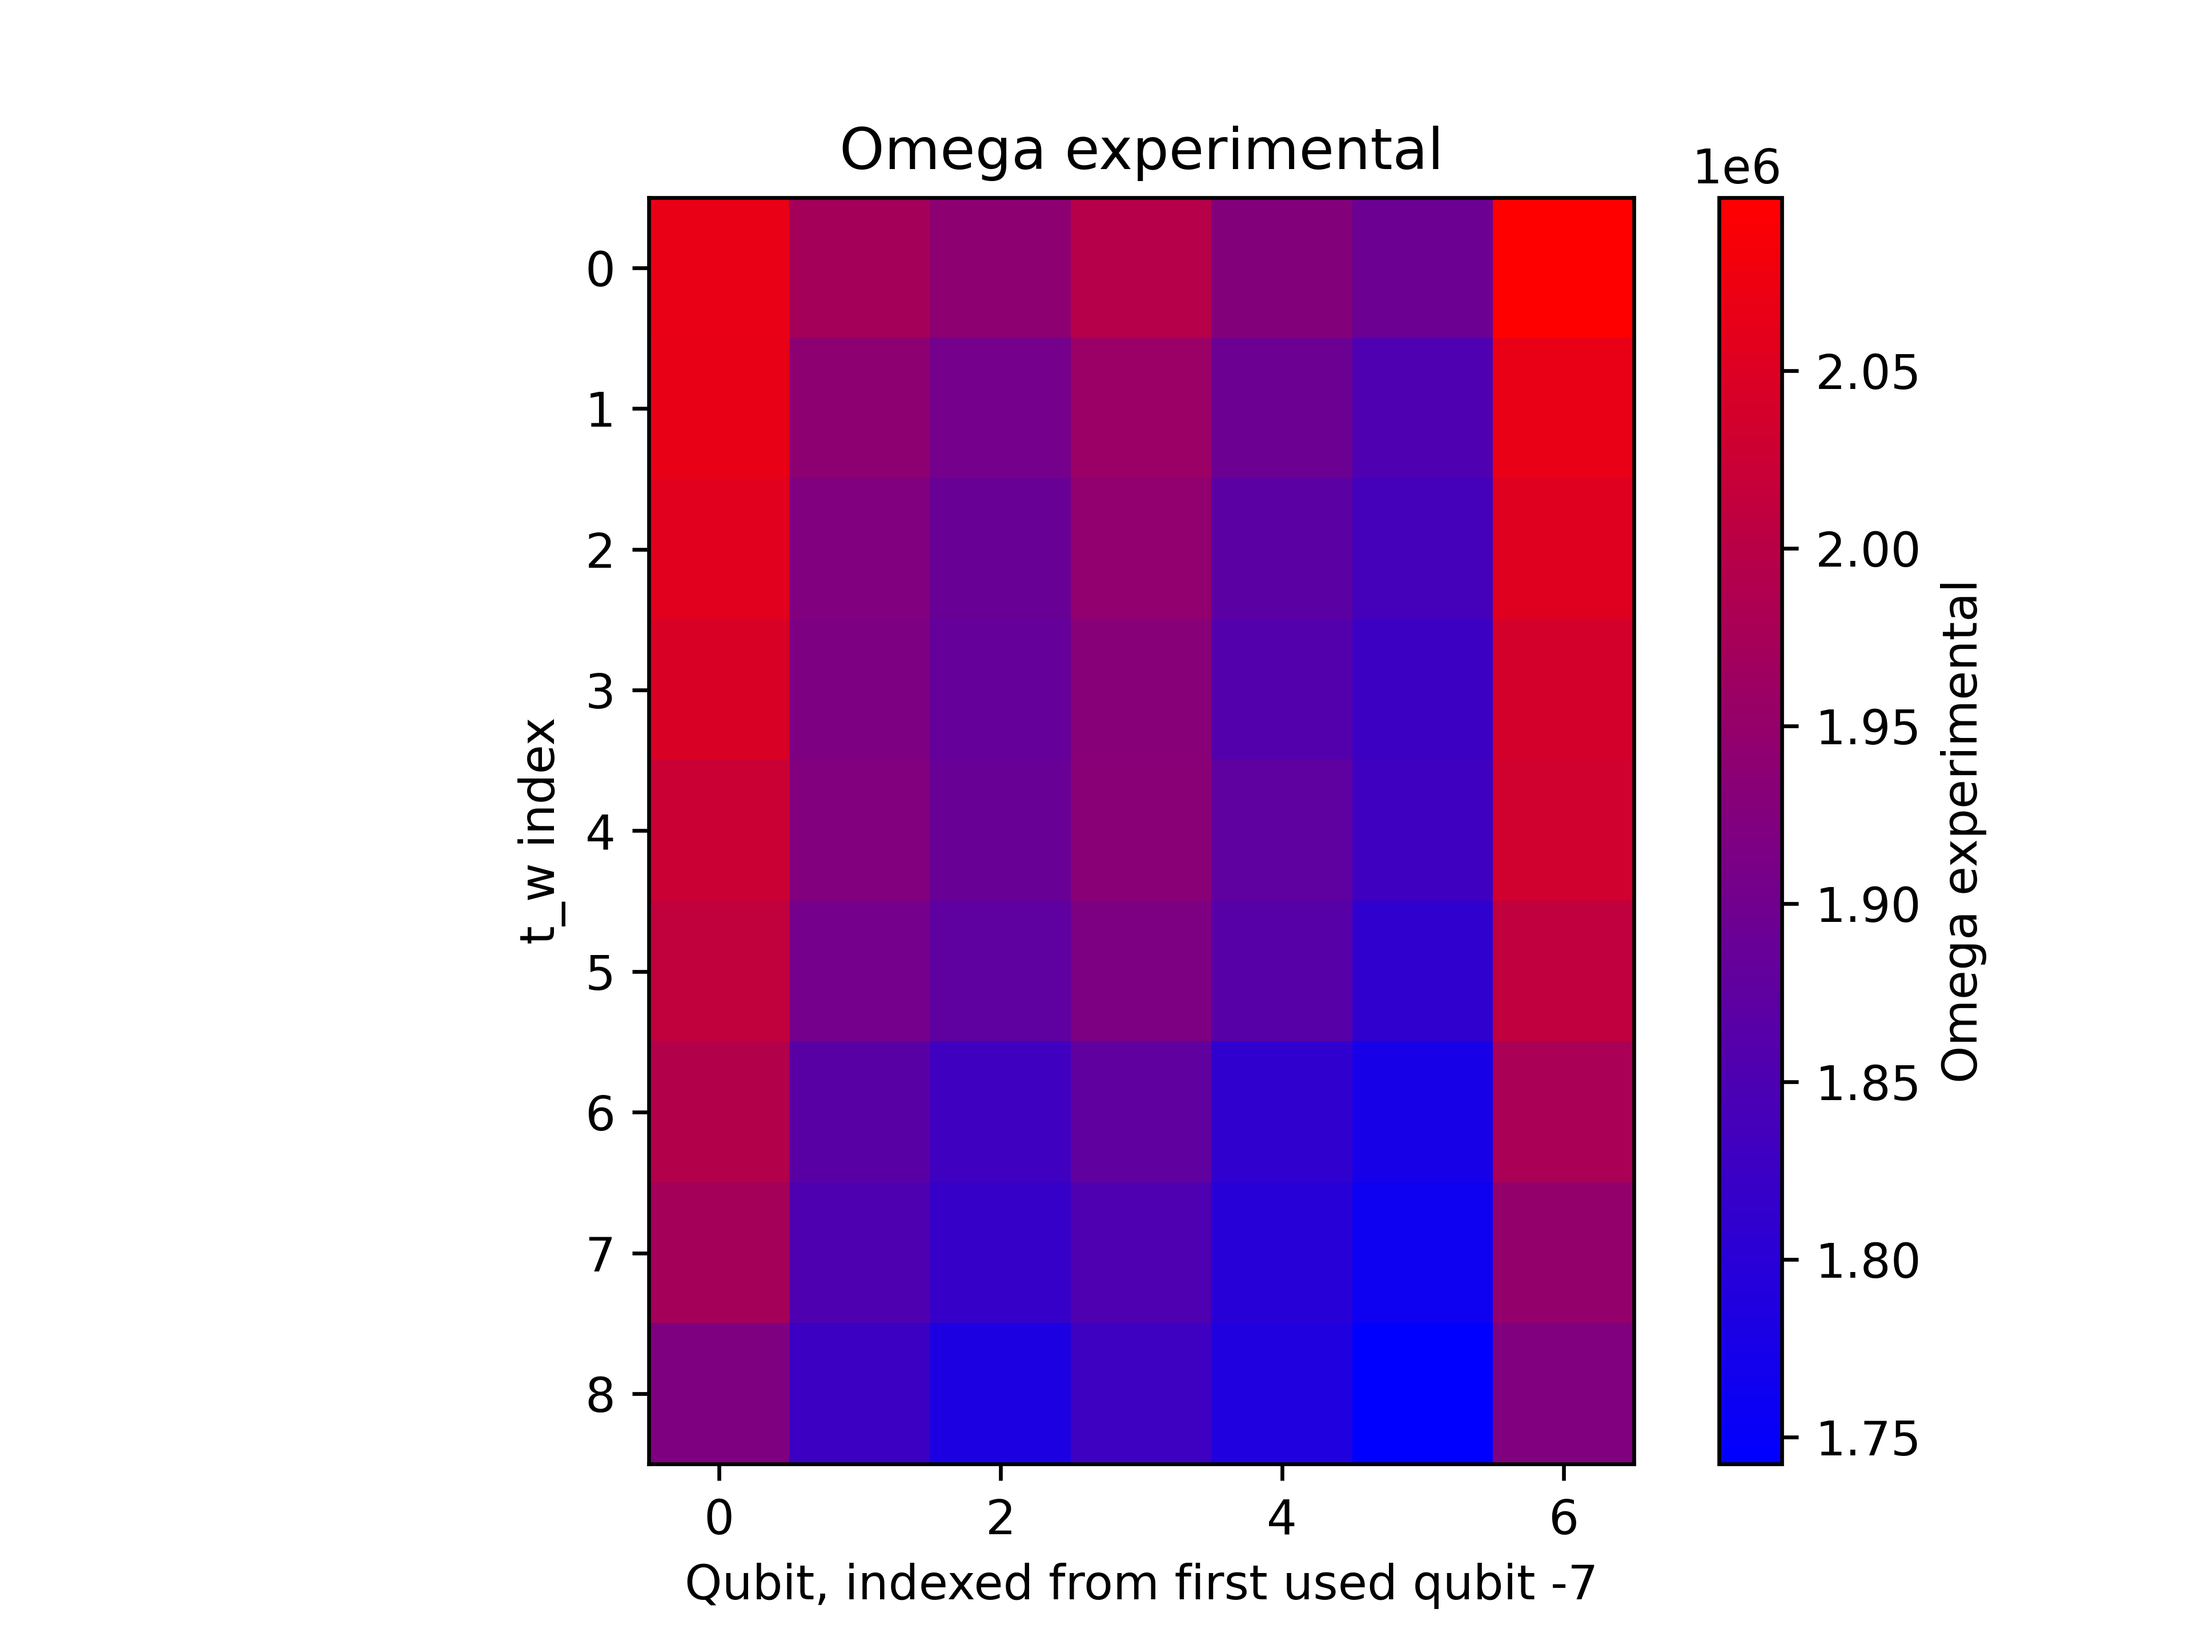
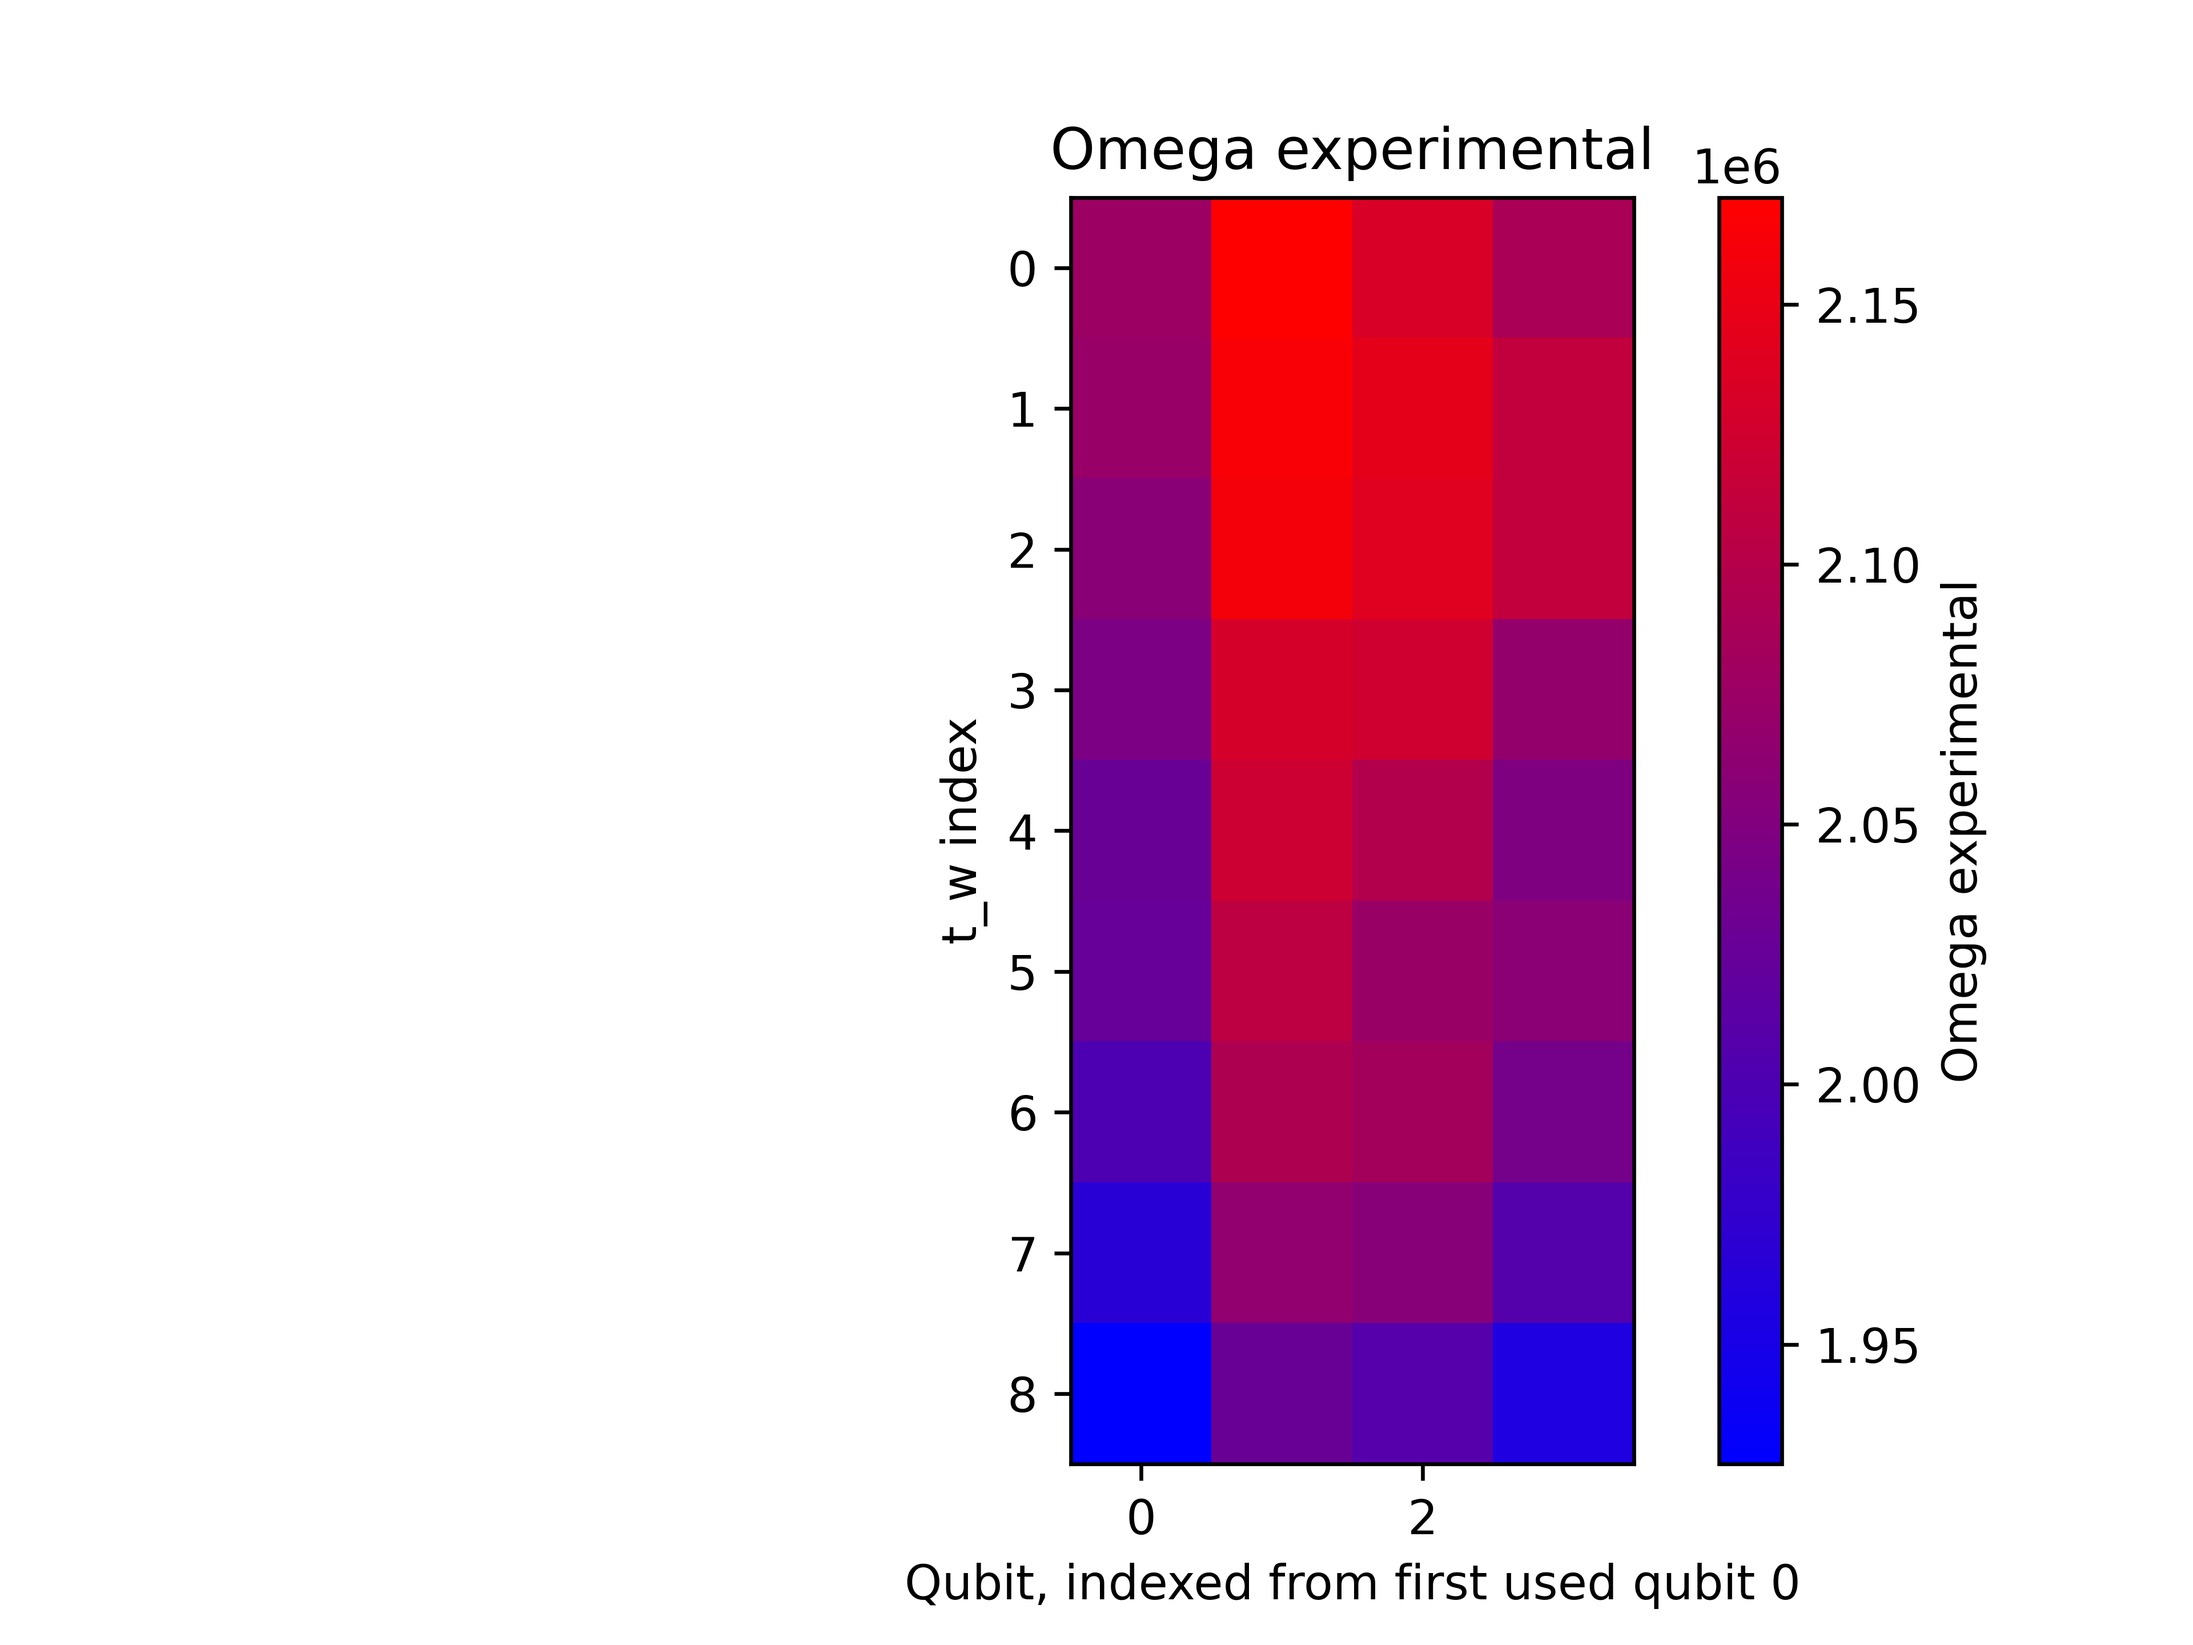
refactoring and updating full_calibration

diff --git a/data_processing/full_calibration.py b/data_processing/full_calibration.py
@@ -15,12 +15,11 @@ PATH = os.path.expanduser('~') + '/Duke_Analog_ZNE_data/'
 os.chdir(PATH)
 
 #print(os.getcwd())
-from index import print_index, get_experiment, index_folder
-from functions_util import cetina_thermal_exp, cetina_envelope_exp
+from util.index import print_index, get_experiment, index_folder
+from util.functions_util import cetina_thermal_exp, cetina_envelope_exp
 from scipy.optimize import curve_fit
 import matplotlib.pyplot as plt
 from matplotlib.colors import LinearSegmentedColormap
-import matplotlib.cm as cm
 import numpy as np
 import h5py
 
@@ -29,20 +28,29 @@ import tkinter as tk
 from tkinter import filedialog
 
 
-from functions_util import gaussian_envelope_shifted, cetina_thermal, gaussian_envelope, generate_experimental_data, rabi_flop_gauss_fit, rabi_flop_gauss_fit_shifted, cetina_thermal_exp,cetina_envelope
-from fitting_functions_ZNE import log_fit_exp_ZNE, gaussian_ZNE, cubic_ZNE, linear_ZNE, Cetina_fit, exp_ZNE, third_no_first_ZNE, quadratic_only_ZNE
+from util.functions_util import gaussian_envelope_shifted, cetina_thermal, gaussian_envelope, generate_experimental_data, rabi_flop_gauss_fit, rabi_flop_gauss_fit_shifted, cetina_thermal_exp,cetina_envelope
+from util.fitting_functions_ZNE import log_fit_exp_ZNE, gaussian_ZNE, cubic_ZNE, linear_ZNE, Cetina_fit, exp_ZNE, third_no_first_ZNE, quadratic_only_ZNE
 
 
 COUNTS_THRESHOLD = 1
-PREFIX = '563'
-#PREFIX = '558
+ACTIVE_QUBITS = [0, 1, 2, 3]
+
+#Basic parameters:
+KHz = 1e3
+omega =  900*KHz
+us = 1e-6
+theta = 0.05
 
 
 
-def fit(function, x_axis, y_axis, return_cov=False, p0=[.05,2000000], weights=None):
+def fit(function, x_axis, y_axis, return_cov=False, p0=[theta,omega], weights=None):
     # Fit the data to the function
-    popt, pcov = curve_fit(function, x_axis, y_axis, p0=p0, sigma=weights, absolute_sigma=True, maxfev=10000)
-    
+    try:
+        popt, pcov = curve_fit(function, x_axis, y_axis, p0=p0, sigma=weights, absolute_sigma=True, maxfev=10000)
+    except:
+        'Fit Failed, returning default'
+        popt = p0
+        pcov = None
     if return_cov:
         return popt, pcov
     return popt
@@ -62,12 +70,12 @@ print(f"Selected folder: {foldername}")
 
 
 # Indexes the folder to add to the experiment list
-index_tf = input('Do you want to index the folder? (y/n): ')
-if index_tf == 'y':
-    name = input('Enter extra metadata')
-    index_folder(full_path, title=name)
-else:
-    pass    
+#index_tf = input('Do you want to index the folder? (y/n): ')
+#if index_tf == 'y':
+#    name = input('Enter extra metadata')
+#    index_folder(full_path, title=name)
+#else:
+#    pass    
 
 
 foldername = 'data/' + foldername
@@ -122,15 +130,7 @@ if len(t_w_machine_time) == 0:
             
 
 experiment_names = [str(name) for name in experiment_names]
-for name_index in range(len(experiment_names)):
-    name = experiment_names[name_index]
-    if PREFIX in experiment_names:
-        pass
-    else:
-        name = PREFIX + name
-        experiment_names[name_index] = name
-#print(experiment_names)
-#print(t_w_machine_time)
+
 os.chdir(foldername)
 
 
@@ -183,22 +183,20 @@ t_w.sort()
 
 
 #For each key, extract Omega and theta from the data by fitting to cetina_thermal_exp and cetina_envelope_exp
-center_qubit = [0, 1, 2, 3]#[-3, -2, -1,  
 
 qubits = data_dict[t_w[0]]['probs'].shape[0]
-print(qubits)
+print('Qubits used:')
+print('Total Qubits: ',qubits)
 #Get the center qubit index:
 shift = 0
 center_qubit_index = int(qubits/2)+shift
-good_qubits = np.array(center_qubit) + center_qubit_index
-print(center_qubit_index)
-print([i+-12 for i in range(qubits)])
-print(good_qubits)
-print(center_qubit)
-KHz = 1e3
-omega =  900*KHz
-us = 1e-6
-theta = 0.05
+good_qubits = np.array(ACTIVE_QUBITS) + center_qubit_index
+
+print('Center Qubit Index (Zero Indexed): ',center_qubit_index)
+print([i-(center_qubit_index) for i in range(qubits)])
+print('Active Qubits, Zero Index: ',good_qubits)
+print('Active Qubits, center Index: ',ACTIVE_QUBITS)
+
 thetas = np.zeros((len(t_w), len(good_qubits)))
 Omegas = np.zeros((len(t_w), len(good_qubits)))
 #For each element of t_w, and each good qubit, curve fit to the data to get Omega and theta
@@ -208,9 +206,17 @@ for i, t in enumerate(t_w):
     probs = data['probs']
     for j, q in enumerate(good_qubits):
         #print(j, q)
-        popt, pcov = curve_fit(cetina_thermal_exp, x, probs[q, :], p0=[theta, omega])
+        try:
+            popt, pcov = curve_fit(cetina_thermal_exp, x, probs[q, :], p0=[theta, omega], maxfev=10000)
+        except:
+            print('Fit Failed, returning previous value. For Qubit {}. t_w: {}'.format(q, t))
+            popt = [theta, omega]
         theta = popt[0]
-        popt, pcov = curve_fit(cetina_envelope_exp, x, probs[q, :], p0=[theta, omega])
+        try:
+            popt, pcov = curve_fit(cetina_envelope_exp, x, probs[q, :], p0=[theta, omega], maxfev=10000)
+        except:
+            print('Fit Failed, returning previous value. For Qubit {}. t_w: {}'.format(q, t))
+            popt = [theta, omega]
         omega = popt[1]
         thetas[i, j] = theta
         Omegas[i, j] = omega
@@ -417,7 +423,7 @@ with open('Updated_parameters.txt', 'w') as f:
 plt.figure()
 
 plt.imshow(Omega_scale_factor, cmap=cmap)
-plt.xlabel('Qubit, indexed from first used qubit {}'.format(center_qubit[0]+ shift))
+plt.xlabel('Qubit, indexed from first used qubit {}'.format(ACTIVE_QUBITS[0]+ shift))
 plt.ylabel('t_w index')
 plt.title('Omega Scaling Factor Update')
 cbar = plt.colorbar()
@@ -431,7 +437,7 @@ plt.close()
 plt.figure()
 
 plt.imshow(Omega_comp_fit_matrix, cmap=cmap)
-plt.xlabel('Qubit, indexed from first used qubit {}'.format(center_qubit[0]+ shift))
+plt.xlabel('Qubit, indexed from first used qubit {}'.format(ACTIVE_QUBITS[0]+ shift))
 plt.ylabel('t_w index')
 plt.title('Omega Scaling Factor Linear Fit')
 cbar = plt.colorbar()
@@ -445,7 +451,7 @@ plt.close()
 plt.figure()
 
 plt.imshow(Omega_comp_fit_matrix/Omega_scale_factor, cmap=cmap)
-plt.xlabel('Qubit, indexed from first used qubit {}'.format(center_qubit[0]+ shift))
+plt.xlabel('Qubit, indexed from first used qubit {}'.format(ACTIVE_QUBITS[0]+ shift))
 plt.ylabel('t_w index')
 plt.title('Omega_fit/Omega_scale_raw error')
 cbar = plt.colorbar()
@@ -458,7 +464,7 @@ plt.close()
 plt.figure()
 
 plt.imshow(Omegas, cmap=cmap)
-plt.xlabel('Qubit, indexed from first used qubit {}'.format(center_qubit[0]+ shift))
+plt.xlabel('Qubit, indexed from first used qubit {}'.format(ACTIVE_QUBITS[0]+ shift))
 plt.ylabel('t_w index')
 plt.title('Omega experimental')
 cbar = plt.colorbar()
@@ -470,7 +476,7 @@ plt.close()
 plt.figure()
 
 plt.imshow(Omegas*Omega_old_comp, cmap=cmap)
-plt.xlabel('Qubit, indexed from first used qubit {}'.format(center_qubit[0]+ shift))
+plt.xlabel('Qubit, indexed from first used qubit {}'.format(ACTIVE_QUBITS[0]+ shift))
 plt.ylabel('t_w index')
 plt.title('Omega experimental')
 cbar = plt.colorbar()
@@ -482,7 +488,7 @@ cbar.set_label('Omega experimental')
 plt.figure()
 
 plt.imshow(thetas_mat, cmap=cmap)
-plt.xlabel('Qubit, indexed from first used qubit {}'.format(center_qubit[0]+ shift))
+plt.xlabel('Qubit, indexed from first used qubit {}'.format(ACTIVE_QUBITS[0]+ shift))
 plt.ylabel('t_w index')
 plt.title('theta experimental')
 cbar = plt.colorbar()

diff --git a/util/qsim_functions.py b/util/qsim_functions.py
@@ -1,18 +1,11 @@
 # import all the useful lib in python
 import h5py as h5
 from matplotlib import pyplot as plt
-from matplotlib import artist as art
 import numpy as np
 import scipy as sp
-#ring as AgCluster
-#import pandas as pd
-import pathlib
+
 import os
-import datetime as dt
-import time
-import json
-import io
-from IPython.display import clear_output
+
 
 from h5analysis import *
 

diff --git a/util/functions_util.py b/util/functions_util.py
@@ -1,9 +1,8 @@
 import numpy as np
 import matplotlib.pyplot as plt
-from tqdm import tqdm
 from numba import jit, njit, prange
 from numba import jit, float64, int32, boolean
-from samplers_util import thermal_rejection
+from util.samplers_util import thermal_rejection
 
 @njit()
 def gaussian_envelope_shifted(t, theta, Omega):

diff --git a/util/basic_TFIM_funcs.py b/util/basic_TFIM_funcs.py
@@ -7,7 +7,7 @@ from qutip.expect import expect
 from joblib import Parallel, delayed
 
 
-from samplers_util import thermal_rejection
+from util.samplers_util import thermal_rejection
 
 import numpy as np
 import scipy

diff --git a/util/samplers_util.py b/util/samplers_util.py
@@ -1,6 +1,4 @@
 import numpy as np
-import matplotlib.pyplot as plt
-from tqdm import tqdm
 from numba import jit, njit, prange
 from numba import float64, int32, boolean
 
